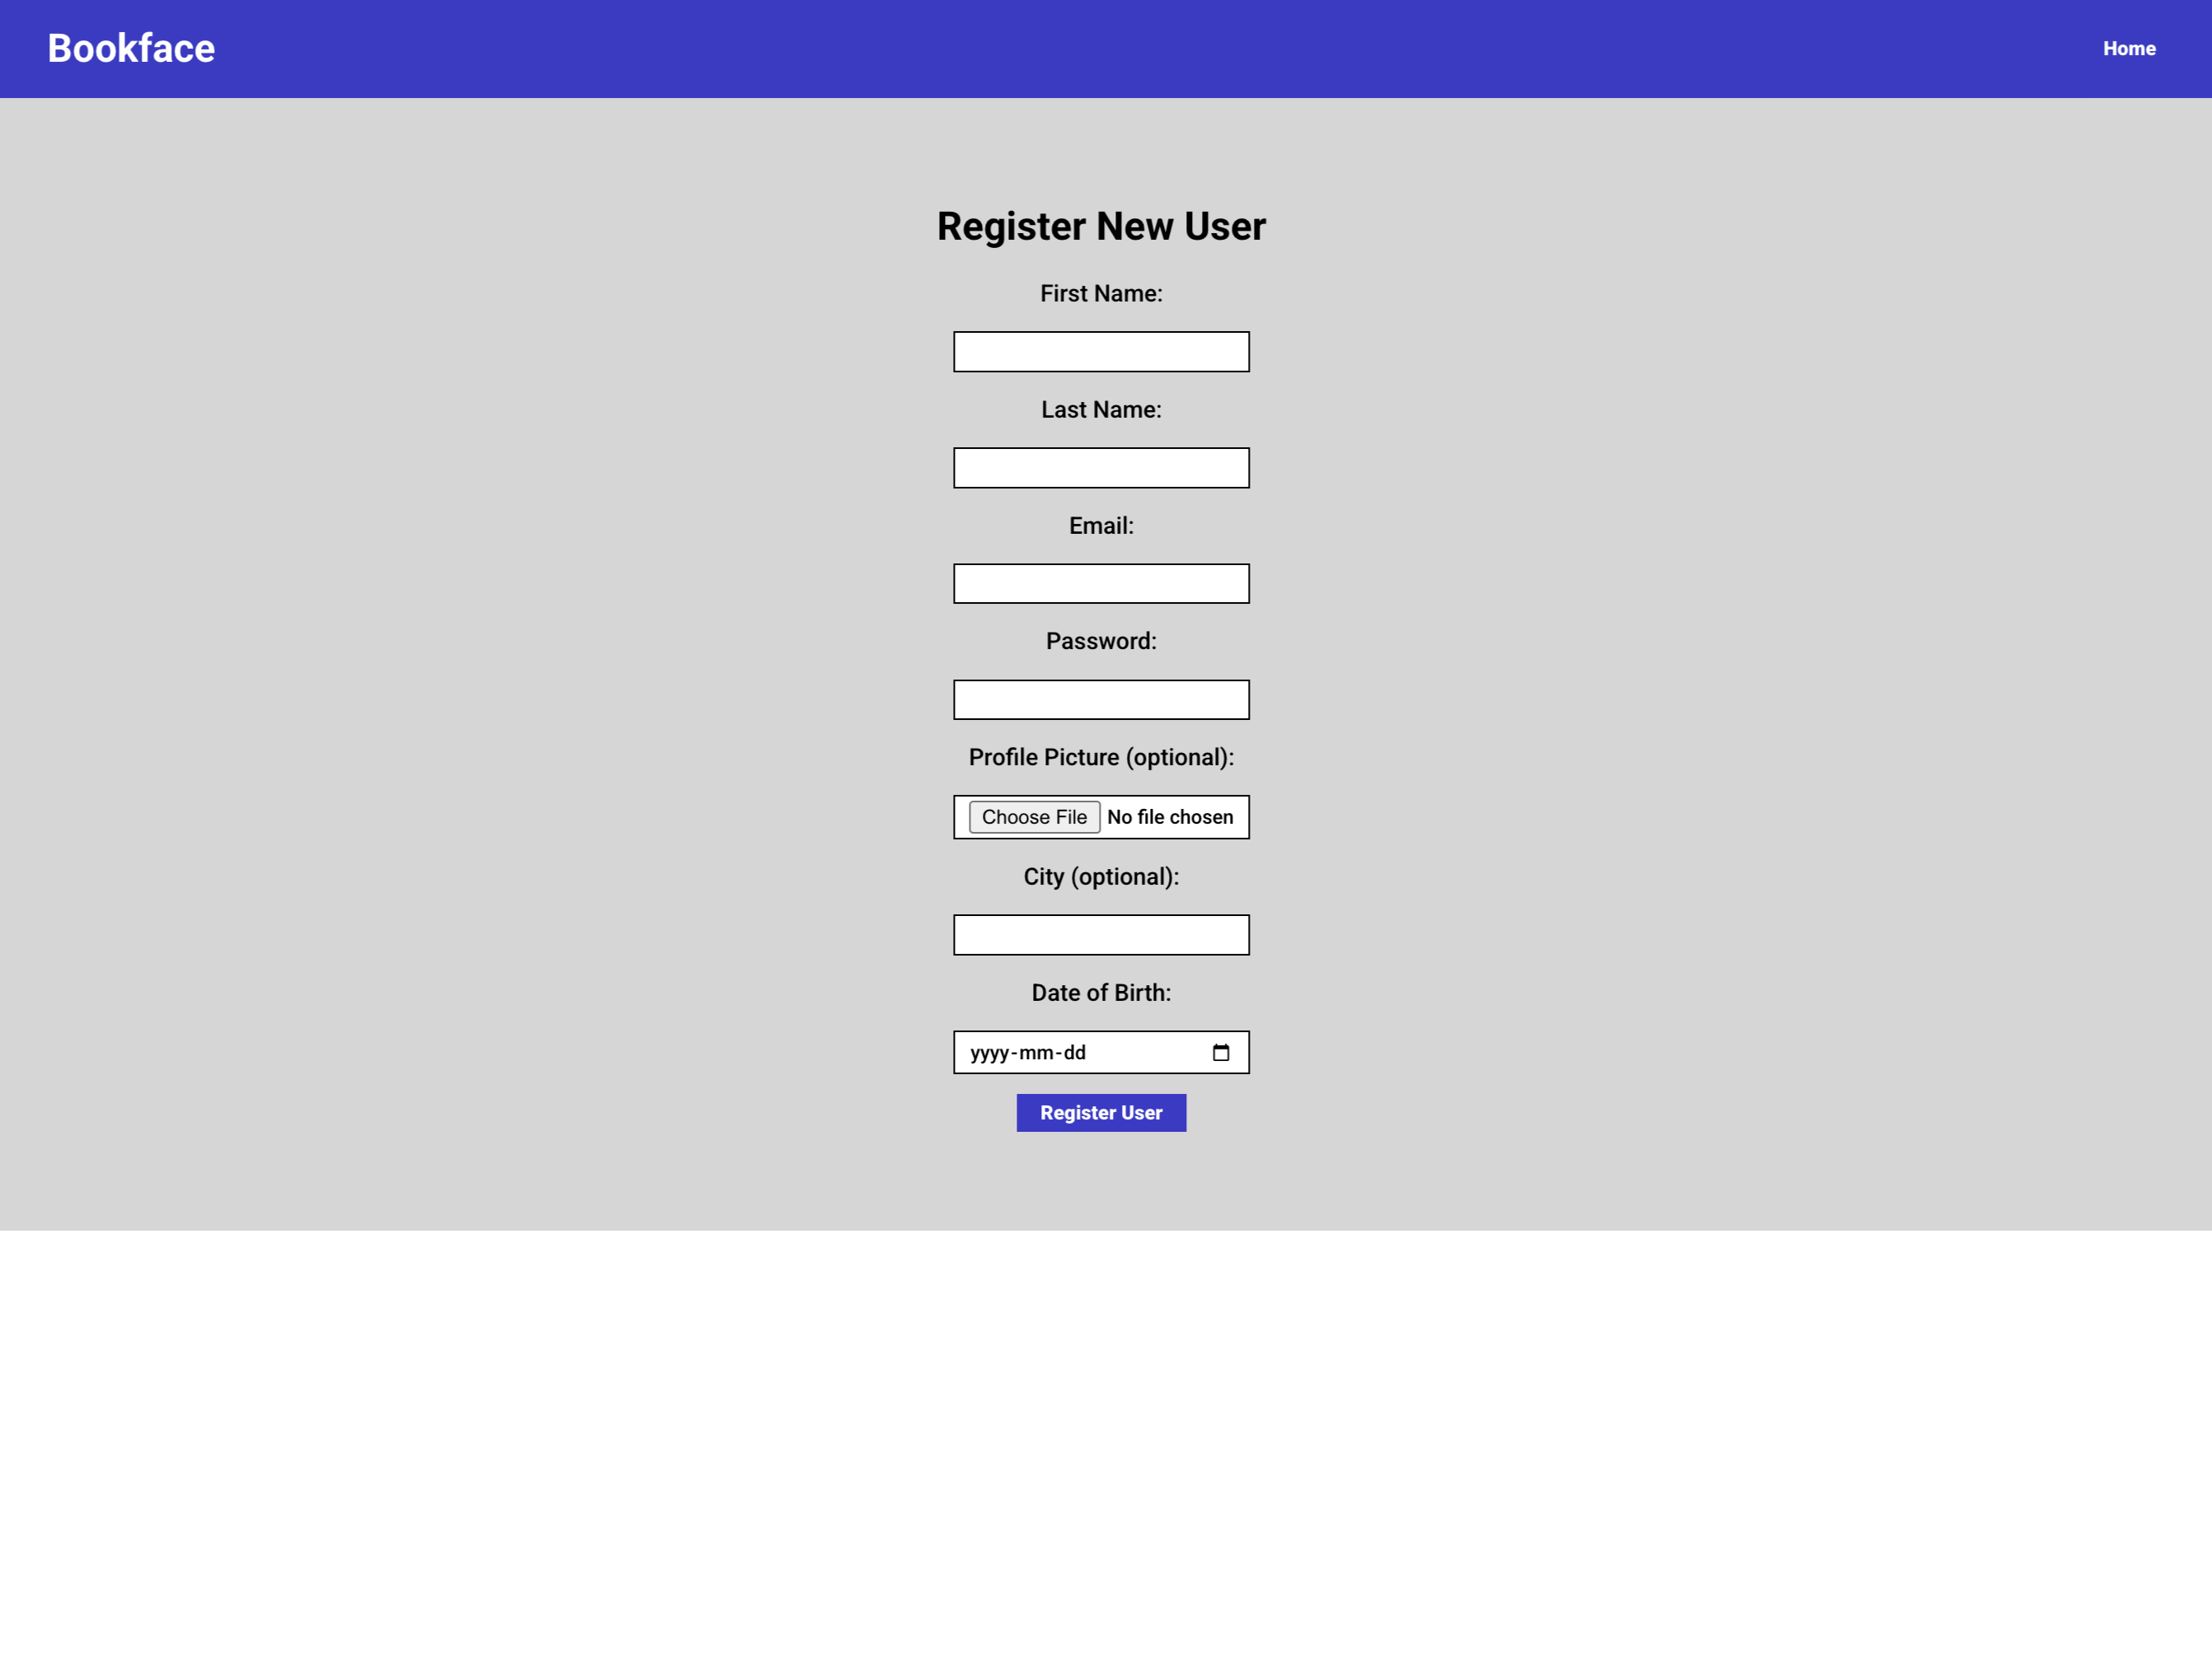
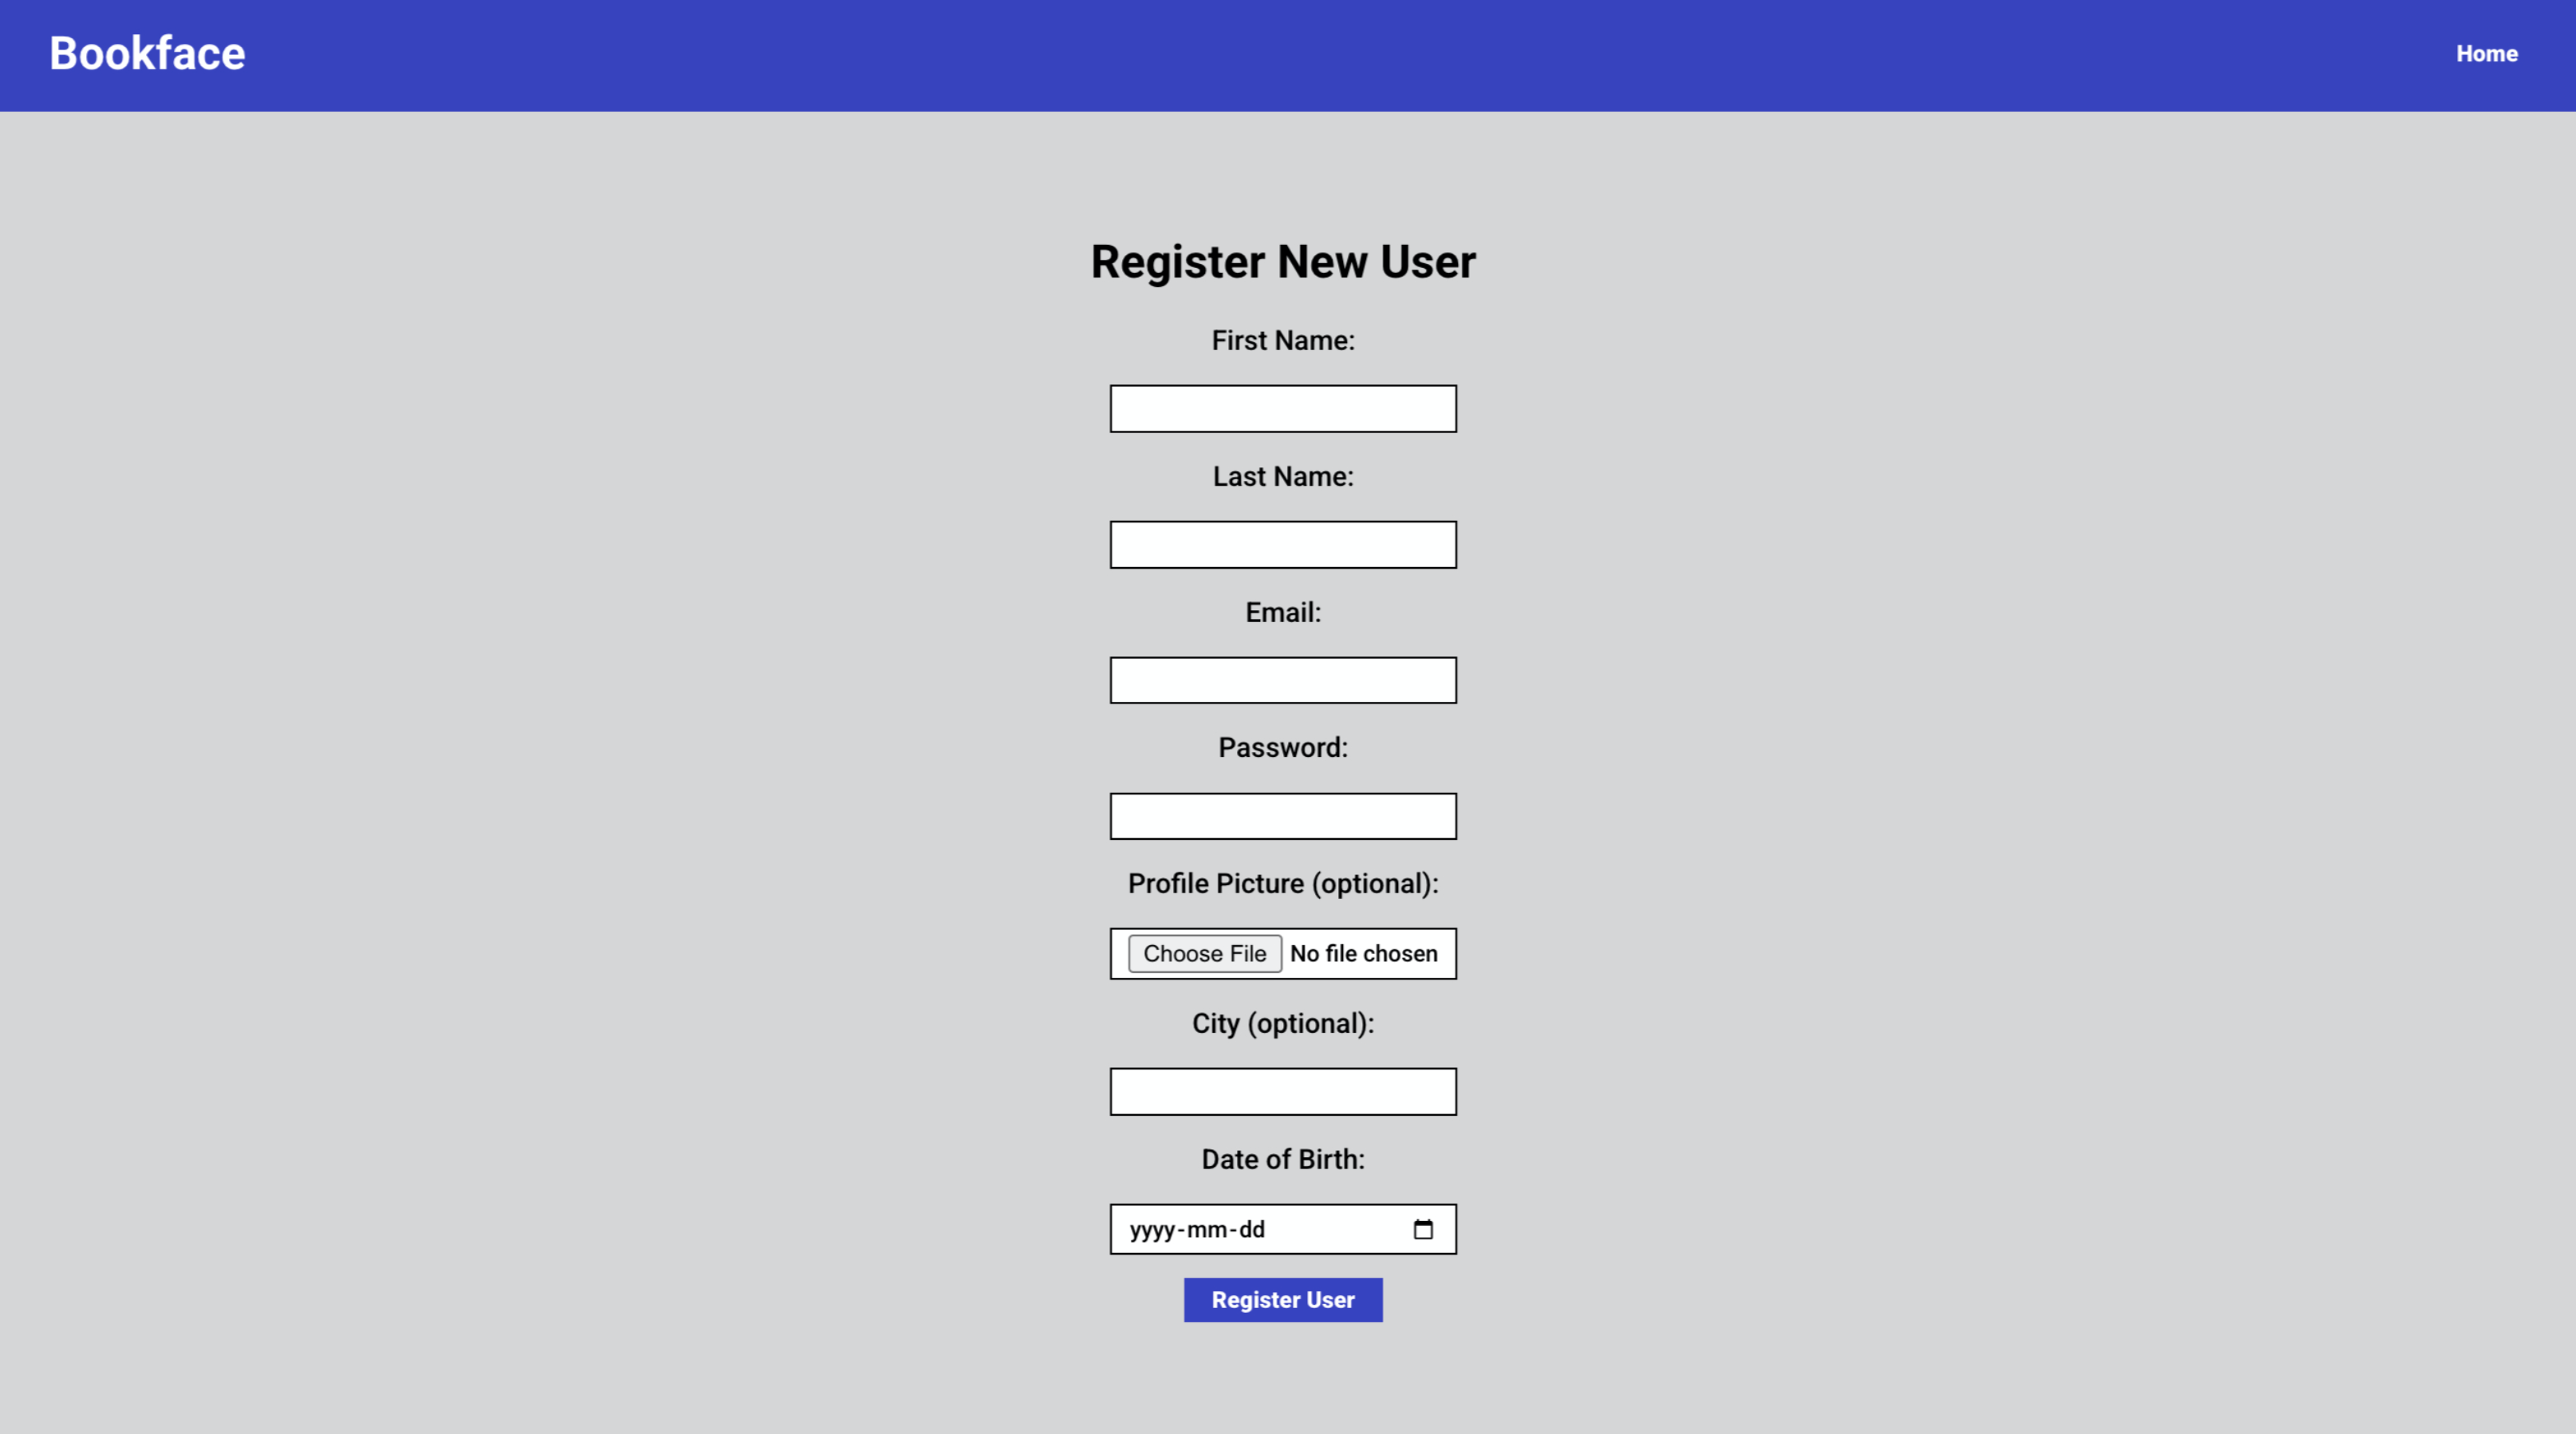
Add all screenshots to README

diff --git a/README.md b/README.md
@@ -3,14 +3,30 @@ The goal of this project was to create a full stack social media app. I decided 
 
 ## Features
 1. Single page app that starts on the homepage with a login form if no current user is logged in and register button to create a new user in the database.
-<img src='./screenshots/login.png' alt='login page' width='500'>
+<img src='./screenshots/login.png' alt='login page' width='700'>
+
 2. Once successfully logged in and a passport session has been made in the backend, goes to the user homepage.
 3. Header and footer on every page that displays the app name, and a nav bar that either has a home button if the user isn't signed in, or a full nav bar with user home, user network, user edit, user delete and user log out buttons.
+<img src='./screenshots/header.png' alt='header bar' width='700'>
+
 4. User home page with the current logged in user's full name, their profile picture, an edit profile picture button and their date that they created their account, as well as a list of all posts created by the current user and any posts by peers the current user is following sorted from newest to oldest.
+<img src='./screenshots/home.png' alt='user home page' width='700'>
+
 5. User network page with the current logged in user's full name, their profile picture, an edit profile picture button, their date that they created their account, their hometown, and their birthdate, as well as a list of all users in the database that shows if the user is currently following or followed by them and has buttons to send/cancel follow requests or accept/decline follow requests from other users
+<img src='./screenshots/network.png' alt='user network page' width='700'>
+
 6. A peer profile page for every user that is not the current logged in user, it will show a private page if the user is not currently following the selected user, or will show the peer's full name, their profile picture, their date that they created their account, their hometown and their birthdate, as well as any posts that they have made and any users that the peer is following that are not the currently logged in user (with all follow features that are present in the network page)
+<img src='./screenshots/peer.png' alt='peer page' width='700'>
+
 7. Users can create posts on their home page, and can create comments and add/remove likes on any post that is on their home page or on any selected peer profile page that has posts available
-8. Users can edit/delete any post or comment that has a matching author ID to the current user.
+<img src='./screenshots/home.png' alt='user post page with posts, comments and likes' width='700'>
+
+8. Users can edit/delete any post or comment that they authored.
+9. Users can edit their profile information using the header nav bar edit profile button
+<img src='./screenshots/updateUser.png' alt='user update page' width='700'>
+
+10. Users can edit their profile picture and change it for a new one using the update profile picture button under their profile picture on their home or network pages.
+<img src='./screenshots/updatePic.png' alt='user profile picture update page' width='700'>
 
 ## Project Setup
 